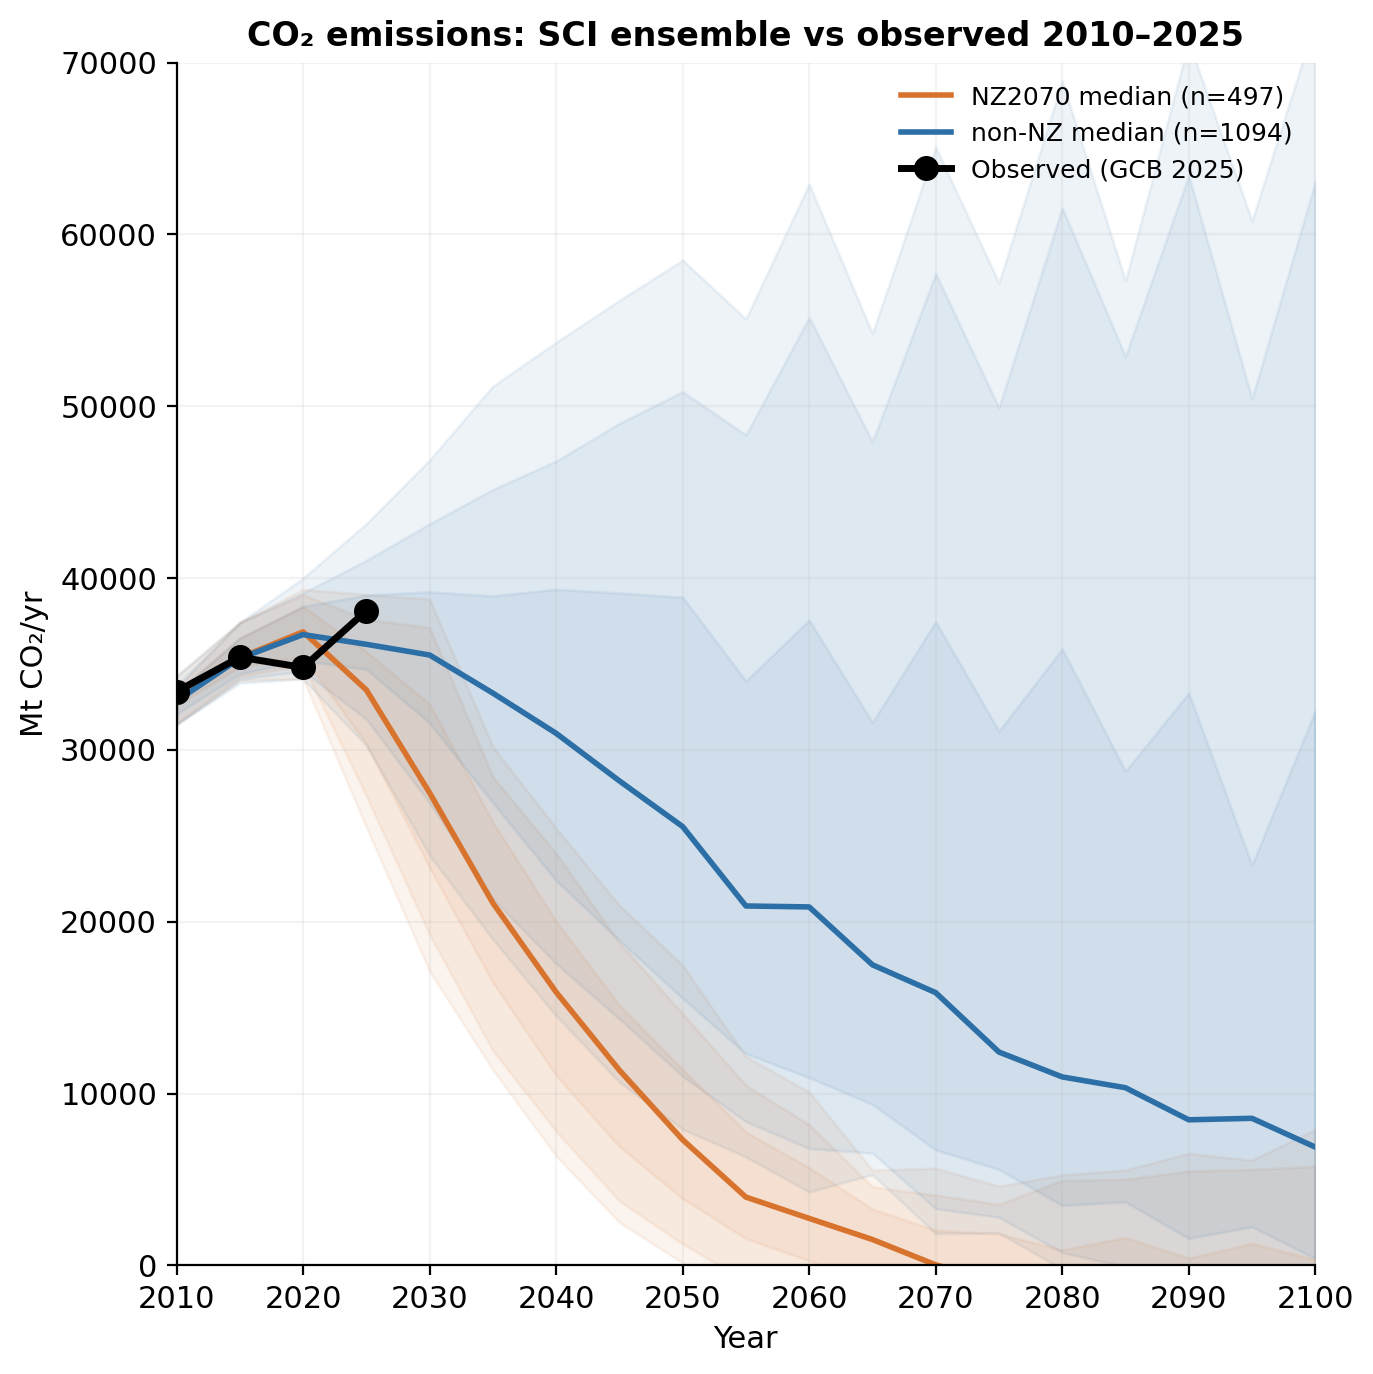
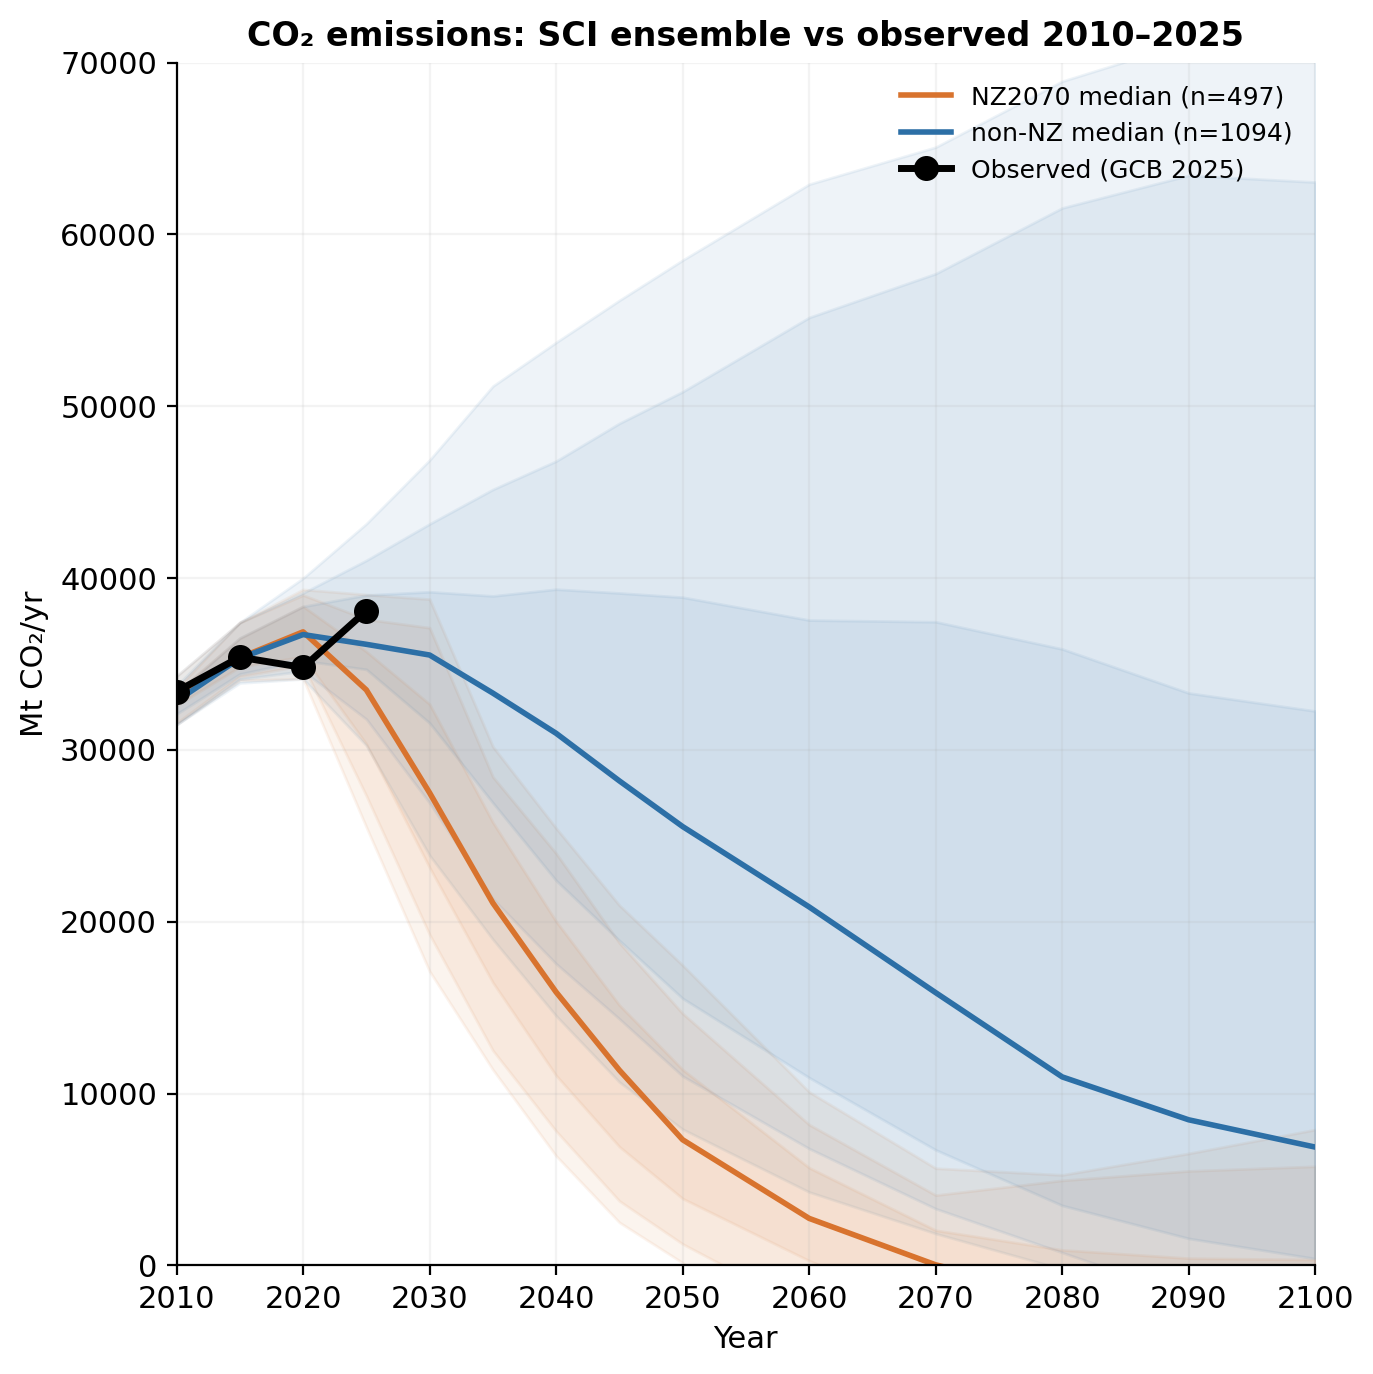
Fig1: smooth to 2050, decadal after

diff --git a/scripts/presentation_figures.py b/scripts/presentation_figures.py
@@ -39,7 +39,14 @@ fig1, ax = plt.subplots(figsize=SQ)
 years_num = [int(y) for y in YEARS_PROJ if y in co2.columns]
 mat_nz = co2[co2["nz2070"]][[str(y) for y in years_num]].values
 mat_ot = co2[~co2["nz2070"]][[str(y) for y in years_num]].values
-years_smooth = np.arange(min(years_num), max(years_num)+1)
+# Smooth annual interpolation up to 2050, then raw decadal points after
+years_before = [y for y in years_num if y <= 2050]
+years_after = [y for y in years_num if y > 2050 and y % 10 == 0]
+idx_before = [years_num.index(y) for y in years_before]
+idx_after = [years_num.index(y) for y in years_after]
+years_smooth_before = np.arange(min(years_num), 2051)
+years_plot_after = np.array(years_after)
+years_all = np.concatenate([years_smooth_before, years_plot_after])
 
 for pct in [5, 10, 25]:
     for mat, color in [(mat_nz, C_NZ), (mat_ot, C_OT)]:
@@ -47,16 +54,24 @@ for pct in [5, 10, 25]:
         hi = np.nanpercentile(mat, 100-pct, axis=0)
         valid = ~(np.isnan(lo)|np.isnan(hi))
         if valid.sum() < 2: continue
-        lo_s = np.interp(years_smooth, np.array(years_num)[valid], lo[valid])
-        hi_s = np.interp(years_smooth, np.array(years_num)[valid], hi[valid])
-        ax.fill_between(years_smooth, lo_s, hi_s, color=color, alpha=0.08)
+        yv = np.array(years_num)[valid]; lov = lo[valid]; hiv = hi[valid]
+        lo_before = np.interp(years_smooth_before, yv, lov)
+        hi_before = np.interp(years_smooth_before, yv, hiv)
+        lo_after = np.interp(years_plot_after, yv, lov)
+        hi_after = np.interp(years_plot_after, yv, hiv)
+        lo_all = np.concatenate([lo_before, lo_after])
+        hi_all = np.concatenate([hi_before, hi_after])
+        ax.fill_between(years_all, lo_all, hi_all, color=color, alpha=0.08)
 
 for mat, color, label in [(mat_nz, C_NZ, f"NZ2070 median (n={len(mat_nz)})"),
                            (mat_ot, C_OT, f"non-NZ median (n={len(mat_ot)})")]:
     med = np.nanmedian(mat, axis=0)
     valid = ~np.isnan(med)
-    med_s = np.interp(years_smooth, np.array(years_num)[valid], med[valid])
-    ax.plot(years_smooth, med_s, color=color, lw=2, label=label)
+    yv = np.array(years_num)[valid]; mv = med[valid]
+    med_before = np.interp(years_smooth_before, yv, mv)
+    med_after = np.interp(years_plot_after, yv, mv)
+    med_all = np.concatenate([med_before, med_after])
+    ax.plot(years_all, med_all, color=color, lw=2, label=label)
 
 ax.plot([int(y) for y in OBS_CO2], list(OBS_CO2.values()), "ko-", ms=8, lw=2.5, zorder=10, label="Observed (GCB 2025)")
 ax.set_xlabel("Year"); ax.set_ylabel("Mt CO\u2082/yr")